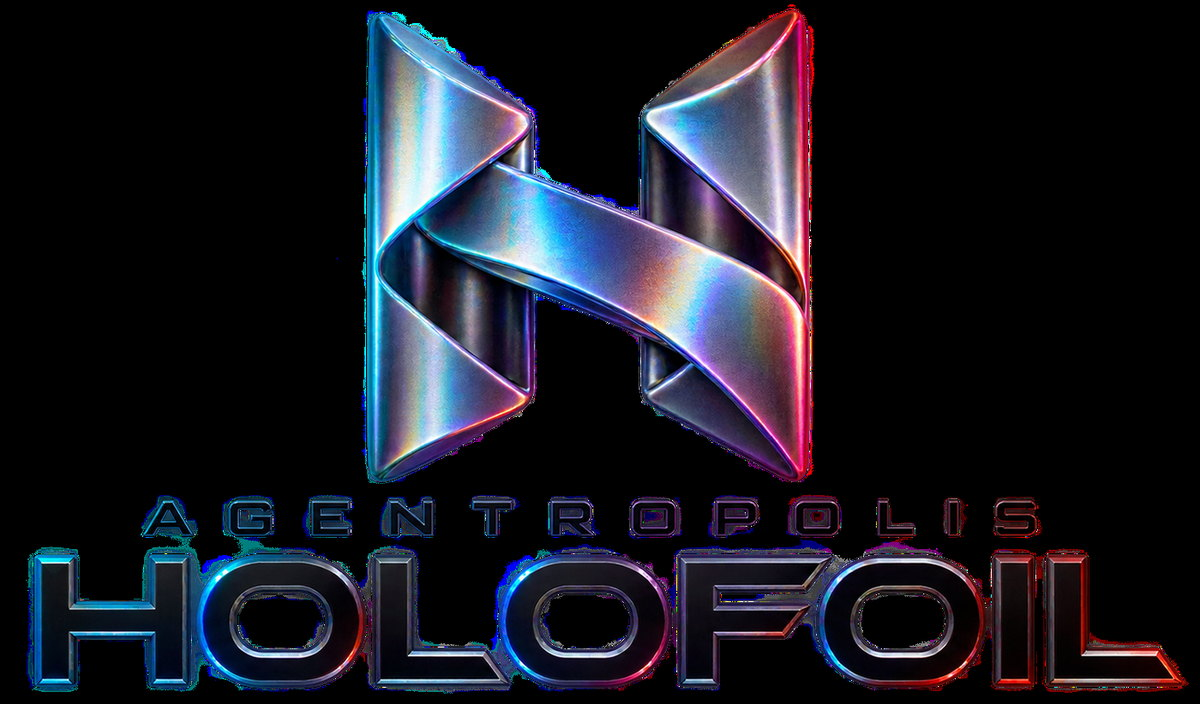
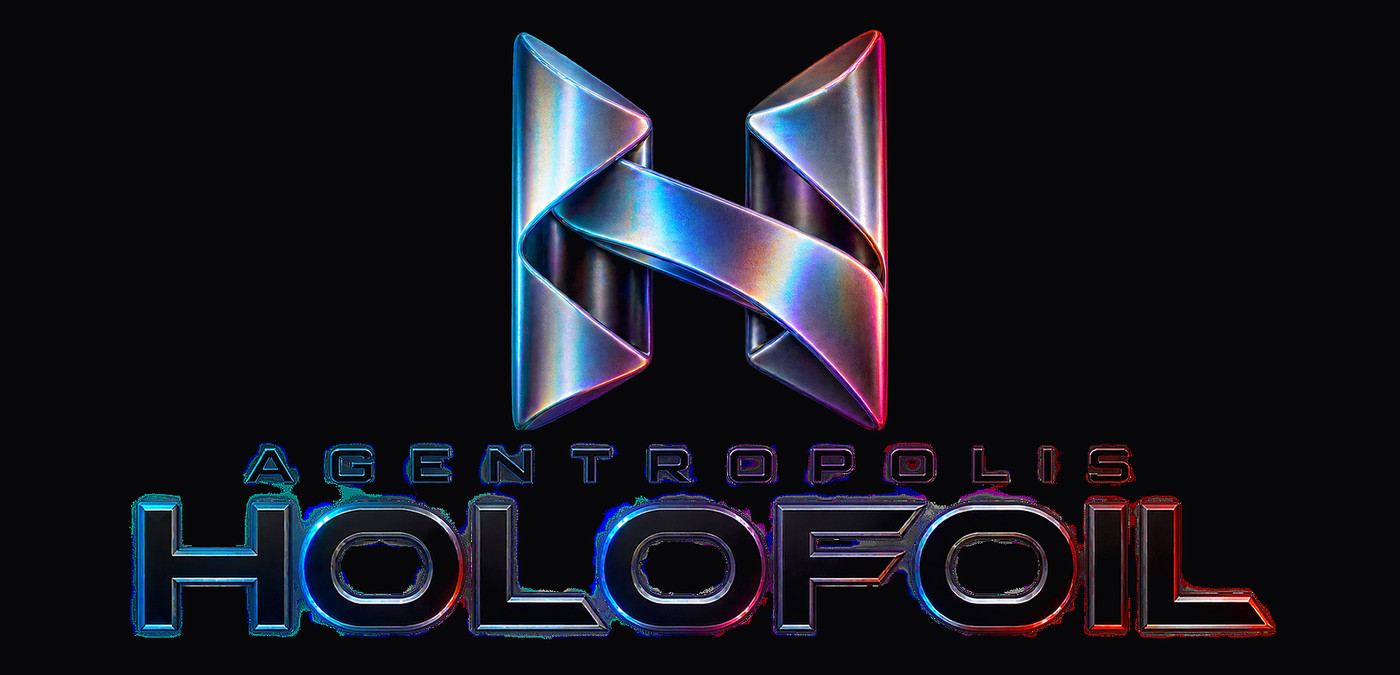
feat: regenerate and clean the HOLOFOIL lockup
Sharpened holographic H on a crushed-black field, original AGENTROPOLIS
HOLOFOIL wordmark preserved, cinematic landscape lockup for landing and OG.

diff --git a/src/routes/index.tsx b/src/routes/index.tsx
@@ -19,8 +19,8 @@ function Home() {
           <img
             src="/holofoil-mark.jpg"
             alt="AGENTROPOLIS HOLOFOIL"
-            width={1200}
-            height={704}
+            width={1400}
+            height={675}
             className="mx-auto w-full max-w-3xl"
           />
           <p className="mx-auto mt-8 max-w-2xl text-center text-base leading-relaxed text-muted sm:text-lg">
